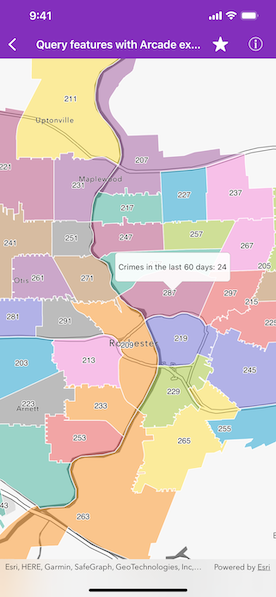
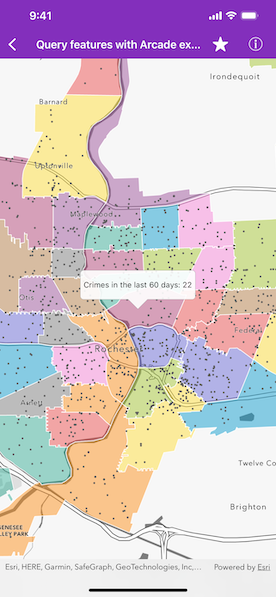
Update portal item, updated screenshot, and readme

diff --git a/arcgis-ios-sdk-samples/Display information/Query features with Arcade expression/QueryFeaturesArcadeExpressionViewController.swift b/arcgis-ios-sdk-samples/Display information/Query features with Arcade expression/QueryFeaturesArcadeExpressionViewController.swift
@@ -30,18 +30,9 @@ class QueryFeaturesArcadeExpressionViewController: UIViewController {
     /// Make and load a map.
     func makeMap() -> AGSMap {
         // Create a portal item with the portal and item ID.
-        let portalItem = AGSPortalItem(portal: .arcGISOnline(withLoginRequired: false), itemID: "14562fced3474190b52d315bc19127f6")
+        let portalItem = AGSPortalItem(portal: .arcGISOnline(withLoginRequired: false), itemID: "539d93de54c7422f88f69bfac2aebf7d")
         // Make a map with the portal item.
         let map = AGSMap(item: portalItem)
-        // Load the map.
-        map.load { _ in
-            // Set the visibility of all but the RPD Beats layer to false.
-            map.operationalLayers.forEach { layer in
-                if let currentLayer = layer as? AGSLayer {
-                    currentLayer.isVisible = currentLayer.name.contains("RPD Beats")
-                }
-            }
-        }
         return map
     }
     

diff --git a/arcgis-ios-sdk-samples/Display information/Query features with Arcade expression/README.md b/arcgis-ios-sdk-samples/Display information/Query features with Arcade expression/README.md
@@ -16,25 +16,24 @@ Tap on any neighborhood to see the number of crimes in the last 60 days in a cal
 
 1. Create an `AGSPortalItem` using the portal and ID.
 2. Create an `AGSMap` using the portal item.
-3. Set the visibility of all the layers to false, except for the layer named "RPD Beats  - City_Beats_Border_1128-4500".
-4. Set the `AGSGeoViewTouchDelegate` to the map.
-5. Identify the layers tapped on the map view with `AGSGeoView.identifyLayers(atScreenPoint:tolerance:returnPopupsOnly:completion:)`.
-6. Create the following `AGSArcadeExpression`:
+3. Set the `AGSGeoViewTouchDelegate` to the map.
+4. Identify the layers tapped on the map view with `AGSGeoView.identifyLayers(atScreenPoint:tolerance:returnPopupsOnly:completion:)`.
+5. Create the following `AGSArcadeExpression`:
 
     ```swift
         expressionValue = "var crimes = FeatureSetByName($map, 'Crime in the last 60 days');\n"
         "return Count(Intersects($feature, crimes));"
     ```
 
-7. Create an `AGSArcadeEvaluator` using the Arcade expression and `ArcadeProfile.FORM_CALCULATION`.
-8. Create a dictionary of profile variables with the following pairs:
+6. Create an `AGSArcadeEvaluator` using the Arcade expression and `ArcadeProfile.FORM_CALCULATION`.
+7. Create a dictionary of profile variables with the following pairs:
 
     `{"$feature", identifiedFeature}`
 
     `{"$map", map}`
 
-9. Use `AGSArcadeEvaluator.evaluate(withProfileVariables:completion:)` with the profile variables to evaluate the Arcade expression.
-10. Convert the result to a `String` to display the crime count in a callout.
+8. Use `AGSArcadeEvaluator.evaluate(withProfileVariables:completion:)` with the profile variables to evaluate the Arcade expression.
+9. Convert the result to a `String` to display the crime count in a callout.
 
 ## Relevant API
 
